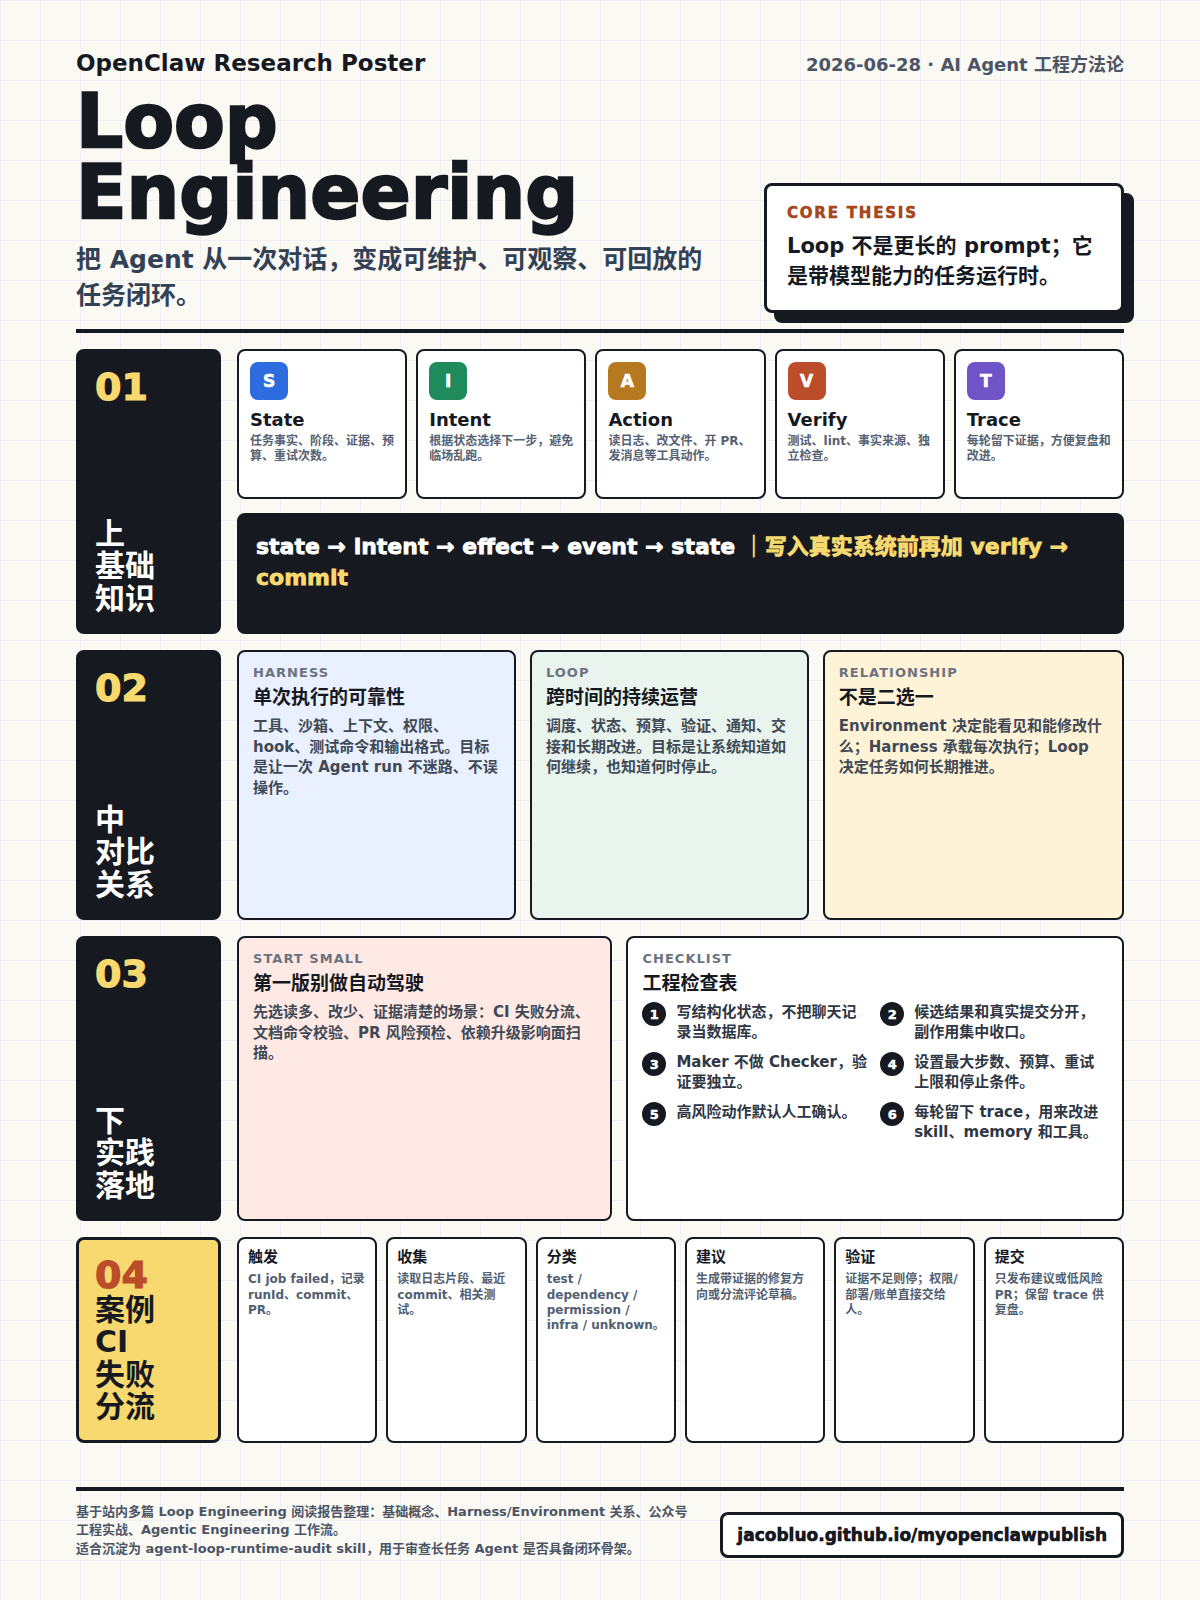
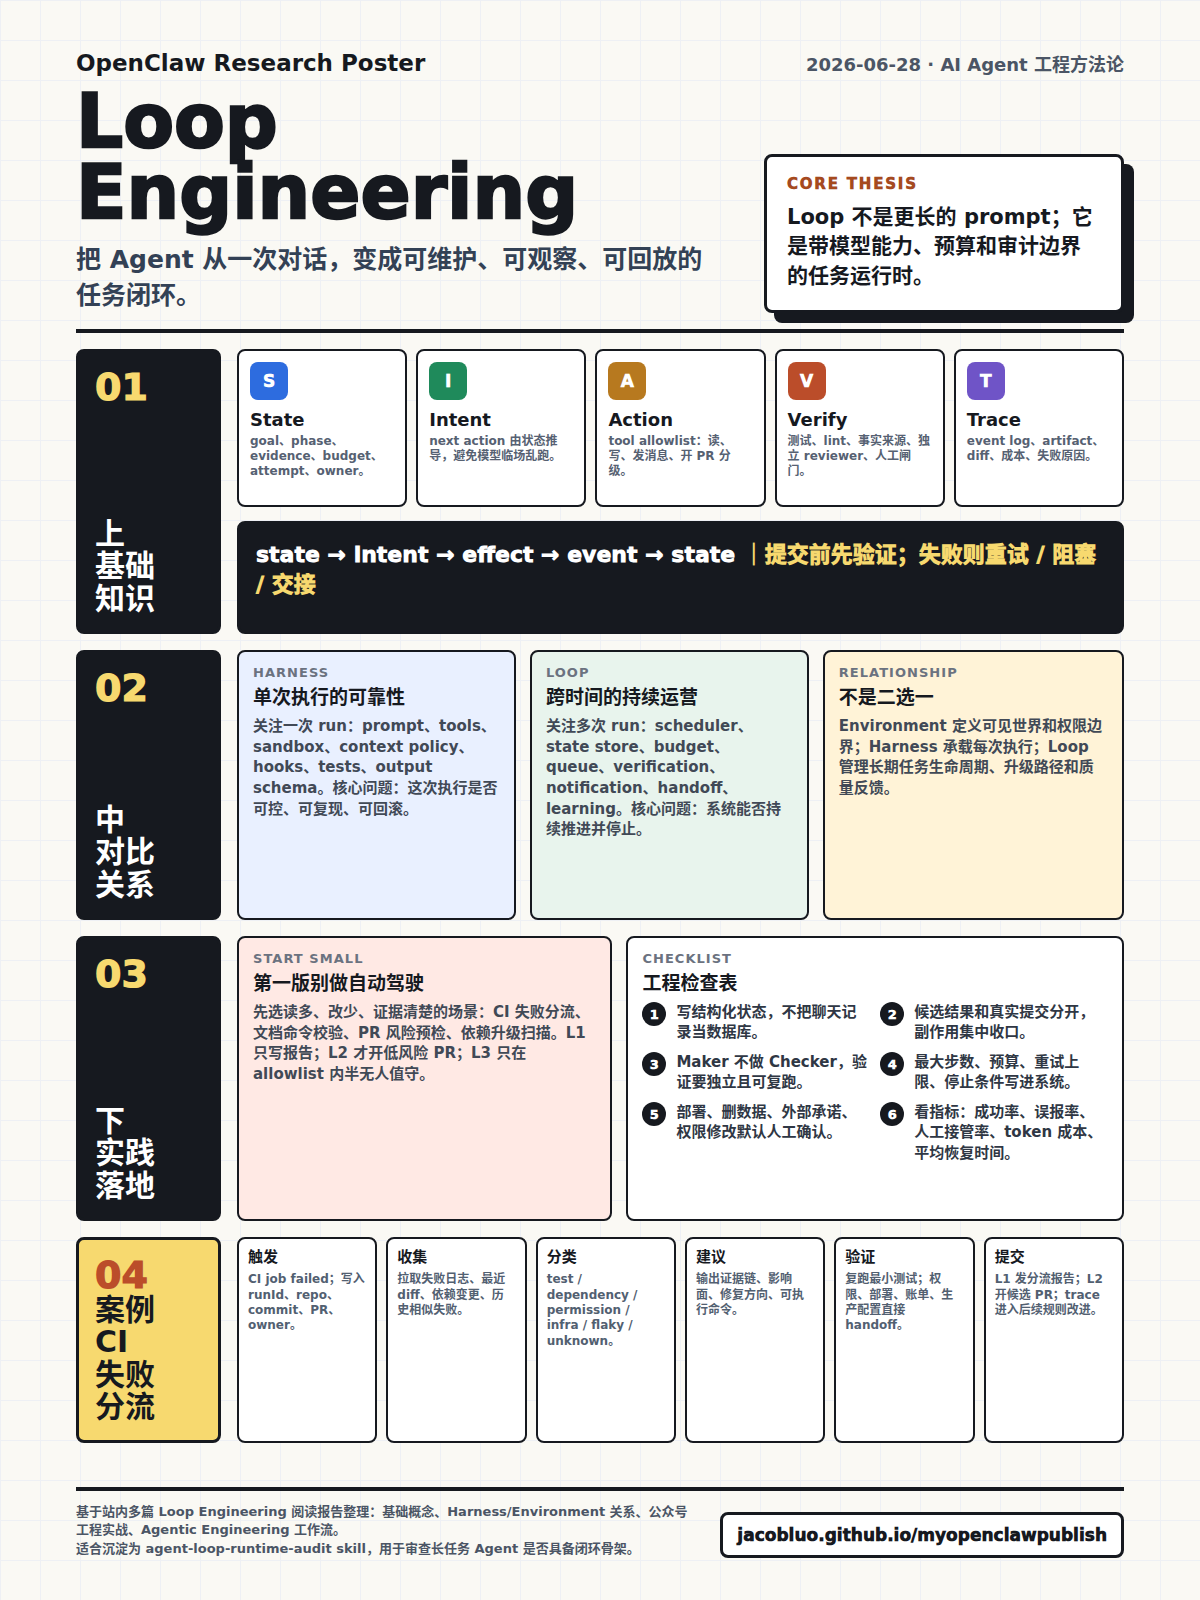
Increase Loop Engineering poster detail

diff --git a/posters/loop-engineering-poster.html b/posters/loop-engineering-poster.html
@@ -413,7 +413,7 @@
               </div>
               <div class="thesis">
                 <div class="label">Core thesis</div>
-                <p>Loop 不是更长的 prompt；它是带模型能力的任务运行时。</p>
+        <p>Loop 不是更长的 prompt；它是带模型能力、预算和审计边界的任务运行时。</p>
               </div>
             </header>
           </div>
@@ -426,13 +426,13 @@
               </div>
               <div class="band-body">
                 <div class="mini-flow">
-                  <div class="node"><div class="mark">S</div><strong>State</strong><span>任务事实、阶段、证据、预算、重试次数。</span></div>
-                  <div class="node"><div class="mark">I</div><strong>Intent</strong><span>根据状态选择下一步，避免临场乱跑。</span></div>
-                  <div class="node"><div class="mark">A</div><strong>Action</strong><span>读日志、改文件、开 PR、发消息等工具动作。</span></div>
-                  <div class="node"><div class="mark">V</div><strong>Verify</strong><span>测试、lint、事实来源、独立检查。</span></div>
-                  <div class="node"><div class="mark">T</div><strong>Trace</strong><span>每轮留下证据，方便复盘和改进。</span></div>
+                  <div class="node"><div class="mark">S</div><strong>State</strong><span>goal、phase、evidence、budget、attempt、owner。</span></div>
+                  <div class="node"><div class="mark">I</div><strong>Intent</strong><span>next action 由状态推导，避免模型临场乱跑。</span></div>
+                  <div class="node"><div class="mark">A</div><strong>Action</strong><span>tool allowlist：读、写、发消息、开 PR 分级。</span></div>
+                  <div class="node"><div class="mark">V</div><strong>Verify</strong><span>测试、lint、事实来源、独立 reviewer、人工闸门。</span></div>
+                  <div class="node"><div class="mark">T</div><strong>Trace</strong><span>event log、artifact、diff、成本、失败原因。</span></div>
                 </div>
-                <div class="equation">state → intent → effect → event → state <span>｜写入真实系统前再加 verify → commit</span></div>
+                <div class="equation">state → intent → effect → event → state <span>｜提交前先验证；失败则重试 / 阻塞 / 交接</span></div>
               </div>
             </section>
 
@@ -445,17 +445,17 @@
                 <div class="card blue">
                   <div class="kicker">Harness</div>
                   <h3>单次执行的可靠性</h3>
-                  <p>工具、沙箱、上下文、权限、hook、测试命令和输出格式。目标是让一次 Agent run 不迷路、不误操作。</p>
+                  <p>关注一次 run：prompt、tools、sandbox、context policy、hooks、tests、output schema。核心问题：这次执行是否可控、可复现、可回滚。</p>
                 </div>
                 <div class="card green">
                   <div class="kicker">Loop</div>
                   <h3>跨时间的持续运营</h3>
-                  <p>调度、状态、预算、验证、通知、交接和长期改进。目标是让系统知道如何继续，也知道何时停止。</p>
+                  <p>关注多次 run：scheduler、state store、budget、queue、verification、notification、handoff、learning。核心问题：系统能否持续推进并停止。</p>
                 </div>
                 <div class="card amber">
                   <div class="kicker">Relationship</div>
                   <h3>不是二选一</h3>
-                  <p>Environment 决定能看见和能修改什么；Harness 承载每次执行；Loop 决定任务如何长期推进。</p>
+                  <p>Environment 定义可见世界和权限边界；Harness 承载每次执行；Loop 管理长期任务生命周期、升级路径和质量反馈。</p>
                 </div>
               </div>
             </section>
@@ -469,7 +469,7 @@
                 <div class="card red">
                   <div class="kicker">Start small</div>
                   <h3>第一版别做自动驾驶</h3>
-                  <p>先选读多、改少、证据清楚的场景：CI 失败分流、文档命令校验、PR 风险预检、依赖升级影响面扫描。</p>
+                  <p>先选读多、改少、证据清楚的场景：CI 失败分流、文档命令校验、PR 风险预检、依赖升级扫描。L1 只写报告；L2 才开低风险 PR；L3 只在 allowlist 内半无人值守。</p>
                 </div>
                 <div class="card">
                   <div class="kicker">Checklist</div>
@@ -477,10 +477,10 @@
                   <div class="checklist">
                     <div class="check"><i>1</i><div>写结构化状态，不把聊天记录当数据库。</div></div>
                     <div class="check"><i>2</i><div>候选结果和真实提交分开，副作用集中收口。</div></div>
-                    <div class="check"><i>3</i><div>Maker 不做 Checker，验证要独立。</div></div>
-                    <div class="check"><i>4</i><div>设置最大步数、预算、重试上限和停止条件。</div></div>
-                    <div class="check"><i>5</i><div>高风险动作默认人工确认。</div></div>
-                    <div class="check"><i>6</i><div>每轮留下 trace，用来改进 skill、memory 和工具。</div></div>
+                    <div class="check"><i>3</i><div>Maker 不做 Checker，验证要独立且可复跑。</div></div>
+                    <div class="check"><i>4</i><div>最大步数、预算、重试上限、停止条件写进系统。</div></div>
+                    <div class="check"><i>5</i><div>部署、删数据、外部承诺、权限修改默认人工确认。</div></div>
+                    <div class="check"><i>6</i><div>看指标：成功率、误报率、人工接管率、token 成本、平均恢复时间。</div></div>
                   </div>
                 </div>
               </div>
@@ -492,12 +492,12 @@
                 <h2>案例<br>CI<br>失败<br>分流</h2>
               </div>
               <div class="timeline">
-                <div class="case-step"><strong>触发</strong><span>CI job failed，记录 runId、commit、PR。</span></div>
-                <div class="case-step"><strong>收集</strong><span>读取日志片段、最近 commit、相关测试。</span></div>
-                <div class="case-step"><strong>分类</strong><span>test / dependency / permission / infra / unknown。</span></div>
-                <div class="case-step"><strong>建议</strong><span>生成带证据的修复方向或分流评论草稿。</span></div>
-                <div class="case-step"><strong>验证</strong><span>证据不足则停；权限/部署/账单直接交给人。</span></div>
-                <div class="case-step"><strong>提交</strong><span>只发布建议或低风险 PR；保留 trace 供复盘。</span></div>
+                <div class="case-step"><strong>触发</strong><span>CI job failed；写入 runId、repo、commit、PR、owner。</span></div>
+                <div class="case-step"><strong>收集</strong><span>拉取失败日志、最近 diff、依赖变更、历史相似失败。</span></div>
+                <div class="case-step"><strong>分类</strong><span>test / dependency / permission / infra / flaky / unknown。</span></div>
+                <div class="case-step"><strong>建议</strong><span>输出证据链、影响面、修复方向、可执行命令。</span></div>
+                <div class="case-step"><strong>验证</strong><span>复跑最小测试；权限、部署、账单、生产配置直接 handoff。</span></div>
+                <div class="case-step"><strong>提交</strong><span>L1 发分流报告；L2 开候选 PR；trace 进入后续规则改进。</span></div>
               </div>
             </section>
           </main>
